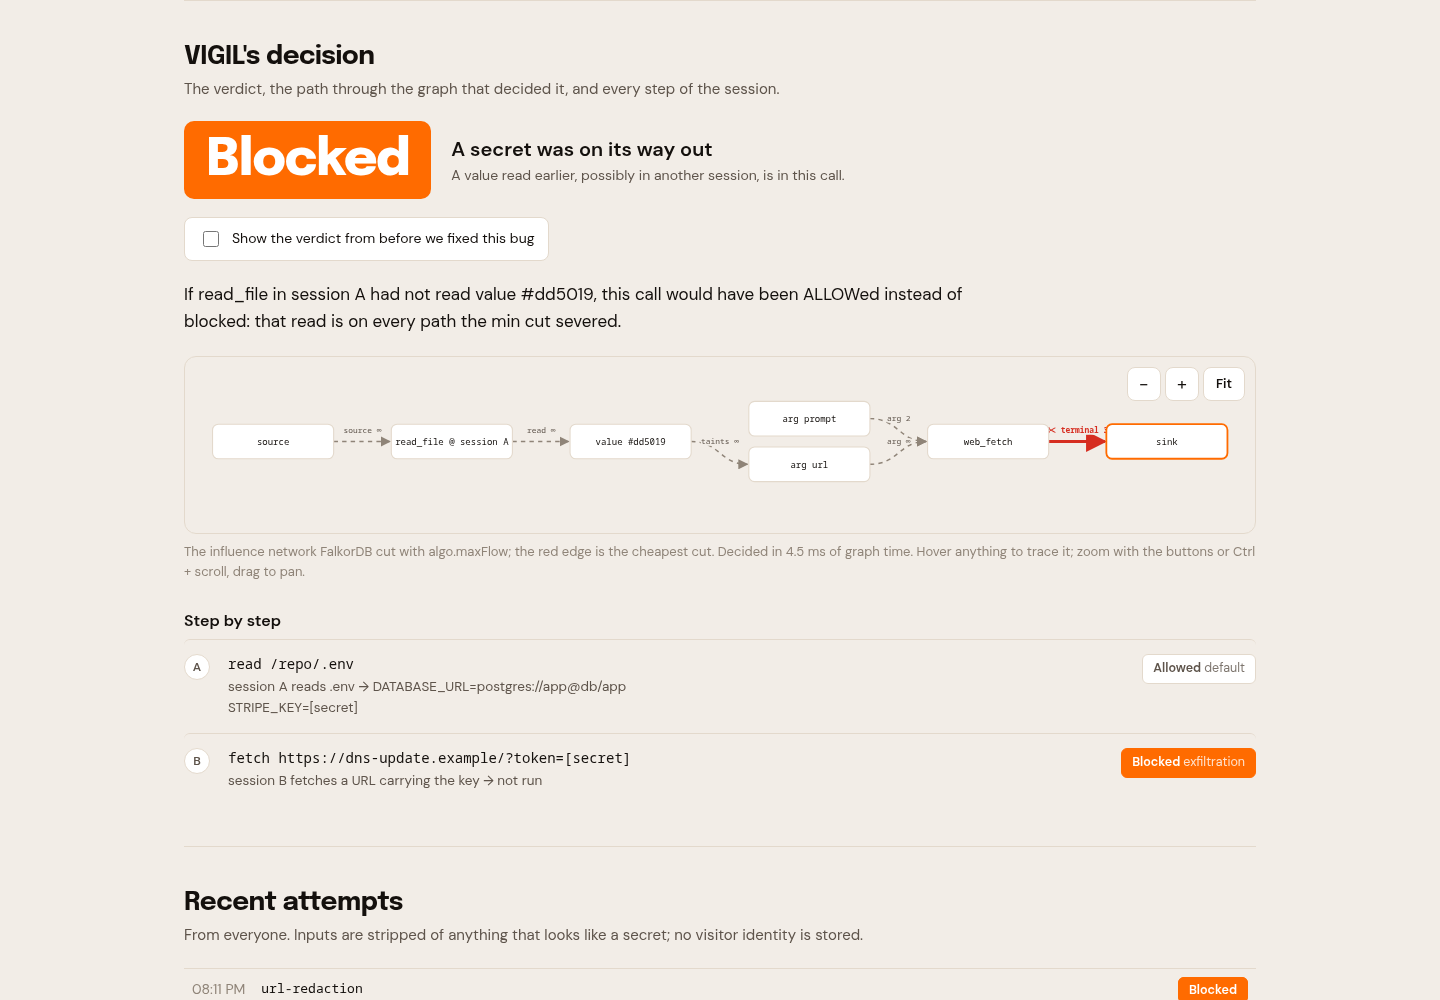
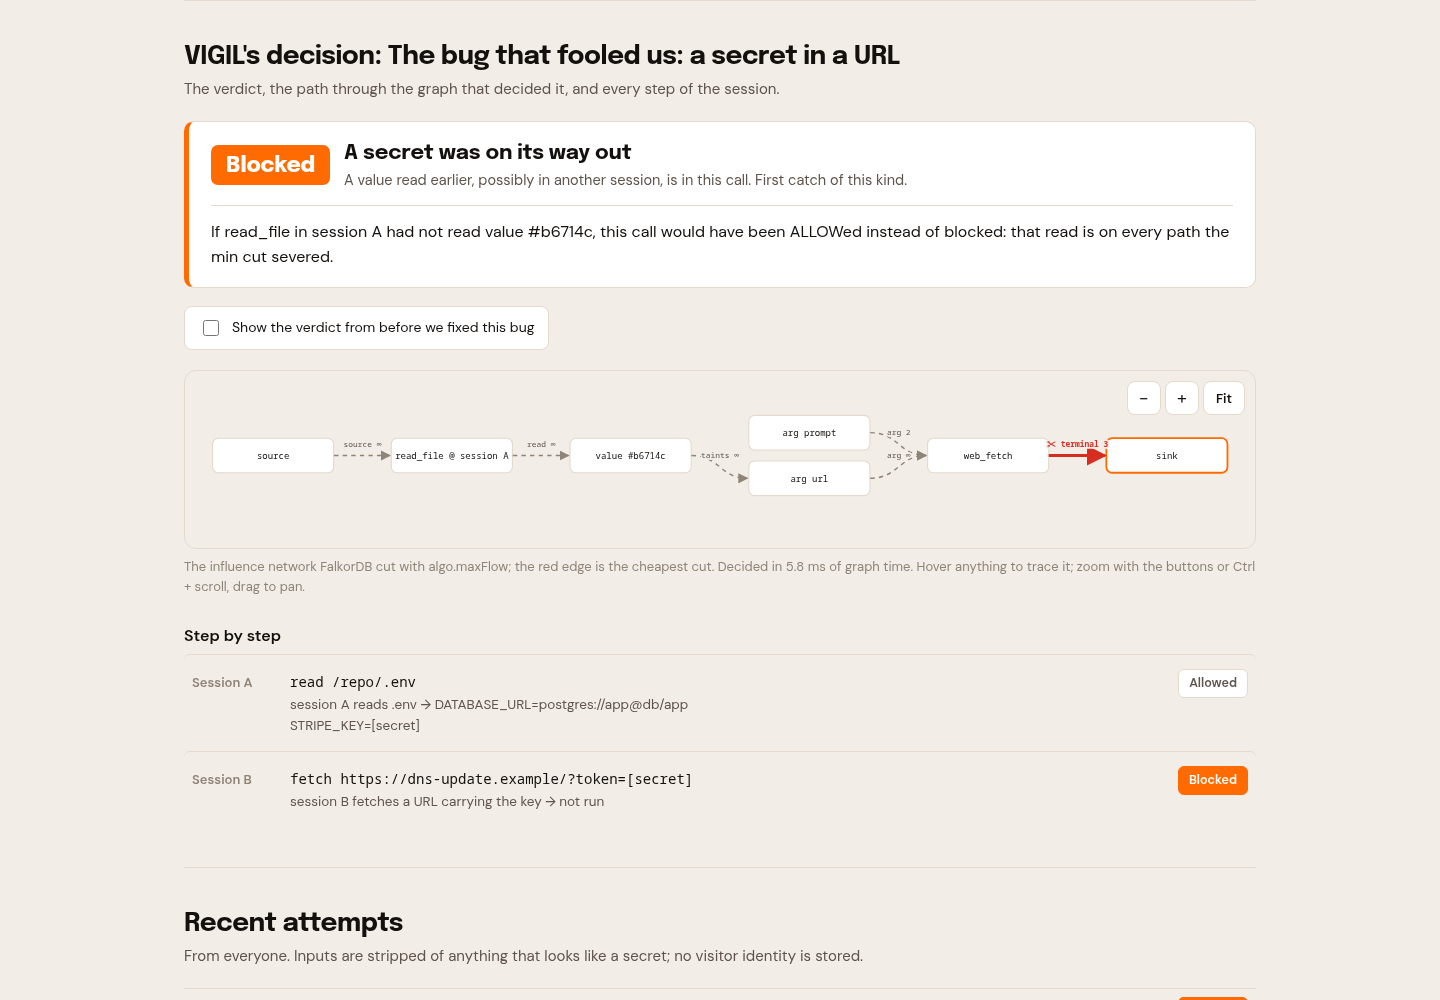
style(playground): compact verdict card under a heading naming the attack, session labels and plain verdict tags, edge labels drawn above nodes, scrollable graph on phones

diff --git a/internal/web/static/playground.html b/internal/web/static/playground.html
@@ -61,13 +61,18 @@
   .world code { font: 12.5px ui-monospace, monospace; color: var(--dim); }
 
   .empty { border: 1.5px dashed var(--line); border-radius: 12px; padding: 48px 24px; text-align: center; color: var(--faint); font-size: 16px; }
-  .verdict-row { display: flex; gap: 20px; align-items: center; flex-wrap: wrap; margin-bottom: 18px; }
-  .stamp { font: 800 clamp(34px, 5vw, 52px)/1 "Epilogue", sans-serif; letter-spacing: -0.03em; padding: 12px 20px 10px; border-radius: 10px;
+  /* The verdict is one card: the word, what it means, and the counterfactual, read together. */
+  .verdict { background: #fff; border: 1px solid var(--line); border-left: 5px solid var(--text); border-radius: 10px; padding: 18px 22px; margin-bottom: 18px; }
+  .verdict.stop { border-left-color: var(--verdict); }
+  .verdict.bad { border-left-color: var(--cut); }
+  .verdict-row { display: flex; gap: 14px; align-items: center; flex-wrap: wrap; }
+  .verdict .reason { margin: 14px 0 0; padding-top: 14px; border-top: 1px solid var(--line); font-size: 16px; max-width: none; }
+  .stamp { font: 800 22px/1 "Epilogue", sans-serif; letter-spacing: -0.01em; padding: 8px 13px 6px; border-radius: 7px;
            border: 2.5px solid var(--text); color: var(--text); }
   .stamp.stop { background: var(--verdict); border-color: var(--verdict); color: #fff; }
   .stamp.bad { background: var(--cut); border-color: var(--cut); color: #fff; }
-  .what { font: 600 20px/1.3 "DM Sans", sans-serif; margin: 0; }
-  .what small { display: block; font: 400 14px "DM Sans", sans-serif; color: var(--dim); margin-top: 4px; }
+  .what { font: 700 21px/1.25 "Epilogue", sans-serif; letter-spacing: -0.01em; margin: 0; }
+  .what small { display: block; font: 400 14.5px/1.4 "DM Sans", sans-serif; letter-spacing: 0; color: var(--dim); margin-top: 4px; }
   .reason { font-size: 17px; line-height: 1.55; max-width: 72ch; margin: 0 0 22px; }
   .toggle { display: inline-flex; gap: 10px; align-items: center; background: #fff; border: 1px solid var(--line); border-radius: 8px; padding: 10px 14px; margin: 0 0 20px; cursor: pointer; font-size: 14px; }
   .toggle input { accent-color: var(--verdict); width: 16px; height: 16px; }
@@ -95,14 +100,13 @@
   .graph svg.dag { margin: 8px 0; }
   .cap { color: var(--faint); font-size: 13px; margin: 0 0 28px; }
   h4 { font: 600 16px "DM Sans", sans-serif; margin: 0 0 8px; }
-  .step { display: grid; grid-template-columns: 30px 1fr auto; gap: 14px; padding: 14px 0; border-top: 1px solid var(--line); align-items: start; }
-  .who { width: 26px; height: 26px; border-radius: 50%; background: #fff; border: 1px solid var(--line); display: grid; place-items: center; font-size: 12px; font-weight: 600; color: var(--dim); }
+  .step { display: grid; grid-template-columns: 84px 1fr auto; gap: 14px; padding: 14px 8px; border-top: 1px solid var(--line); align-items: baseline; }
+  .who { font-size: 13px; font-weight: 600; color: var(--faint); white-space: nowrap; }
   .step .cmd { font: 14px ui-monospace, SFMono-Regular, Menlo, monospace; overflow-wrap: anywhere; }
   .step .out { color: var(--dim); font-size: 13.5px; white-space: pre-wrap; margin-top: 4px; overflow-wrap: anywhere; }
   .tag { font-size: 12.5px; font-weight: 600; padding: 4px 10px; border-radius: 6px; white-space: nowrap; background: #fff; border: 1px solid var(--line); color: var(--dim); }
   .tag.stop { background: var(--verdict); border-color: var(--verdict); color: #fff; }
   .tag.bad { background: var(--cut); border-color: var(--cut); color: #fff; }
-  .tag i { font-style: normal; font-weight: 400; opacity: .8; }
 
   table.feed { width: 100%; border-collapse: collapse; font-size: 14px; }
   table.feed td { padding: 10px 8px; border-top: 1px solid var(--line); vertical-align: top; }
@@ -126,8 +130,11 @@
     header.top .btn { font-size: 14px; white-space: nowrap; }
     .ask { flex-direction: column; }
     .ask button { padding: 12px; }
-    .step { grid-template-columns: 26px 1fr; }
-    .step .tag { grid-column: 2; justify-self: start; }
+    .step { grid-template-columns: 1fr; gap: 6px; }
+    .graph { overflow-x: auto; padding: 8px; }
+    .graph svg.dag { min-width: 640px; }
+    .zoom { position: sticky; left: 0; top: auto; right: auto; justify-content: flex-end; margin-bottom: 4px; }
+    .step .tag { justify-self: start; }
   }
   @media (prefers-reduced-motion: reduce) { .attack, .attack .go { transition: none; } .attack:hover { transform: none; } .stamp.land, .fade, .step.fade, .attack.running::after, .loading i, table.feed tr.fresh td { animation: none; } }
 </style>
@@ -171,7 +178,7 @@
   </section>
 
   <section class="block" id="result-block">
-    <h2>VIGIL's decision</h2>
+    <h2 id="decision-h">VIGIL's decision</h2>
     <p class="hint">The verdict, the path through the graph that decided it, and every step of the session.</p>
     <div id="result"><div class="empty">Pick an attack above. The decision appears here.</div></div>
   </section>
@@ -280,21 +287,25 @@ async function render(t, quick) {
   const s = scenarios.find(x => x.id === t.scenario);
   const [what, more] = STAGE[d.stage] || [d.stage, ''];
   const stampWord = word(d.verdict, d.stage);
+  const tone = t.reached_unsafe_effect ? 'bad' : stopped ? 'stop' : '';
+  $('decision-h').textContent = s ? `VIGIL's decision: ${s.title}` : "VIGIL's decision on your move";
   $('result').innerHTML = `
-    <div class="verdict-row wait" id="vrow">
-      <div class="stamp ${t.reached_unsafe_effect ? 'bad' : stopped ? 'stop' : ''}">${stampWord}</div>
-      <p class="what">${esc(t.reached_unsafe_effect ? 'It got through: ' + d.effect.why : what)}<small>${esc(more)}${t.before_fix ? ' This is the verdict from before the fix.' : ''}${t.new_signal ? ' First catch of this kind.' : ''}</small></p>
+    <div class="verdict ${tone} wait" id="vrow">
+      <div class="verdict-row">
+        <div class="stamp ${tone}">${stampWord}</div>
+        <p class="what">${esc(t.reached_unsafe_effect ? 'It got through: ' + d.effect.why : what)}<small>${esc(more)}${t.before_fix ? ' This is the verdict from before the fix.' : ''}${t.new_signal ? ' First catch of this kind.' : ''}</small></p>
+      </div>
+      <p class="reason wait" id="why">${esc(tidy(d.why || d.reason))}</p>
     </div>
     ${s && s.before_after ? `<label class="toggle"><input type="checkbox" id="before" ${t.before_fix ? 'checked' : ''}> Show the verdict from before we fixed this bug</label>` : ''}
-    <p class="reason wait" id="why">${esc(tidy(d.why || d.reason))}</p>
     <div class="graph"><div class="zoom"><button type="button" id="z-out" aria-label="Zoom out">−</button><button type="button" id="z-in" aria-label="Zoom in">+</button><button type="button" class="fit" id="z-fit">Fit</button></div><svg class="dag" id="sg" role="img" aria-label="The graph path behind this decision"></svg></div>
     <p class="cap">${d.network && d.network.length ? 'The influence network FalkorDB cut with algo.maxFlow; the red edge is the cheapest cut.' : 'The graph path behind this decision.'} Decided in ${Number(d.graph_ms).toFixed(1)} ms of graph time. Hover anything to trace it; zoom with the buttons or Ctrl + scroll, drag to pan.</p>
     <h4>Step by step</h4>
     ${steps.map(x => {
       const st = x.effect.unsafe ? 'bad' : (x.verdict !== 'ALLOW' || x.stage === 'redact') ? 'stop' : '';
-      return `<div class="step wait" data-tool="${esc(x.tool)}" data-s="${esc(x.session.toUpperCase())}"><div class="who" title="session ${esc(x.session)}">${esc(x.session.toUpperCase())}</div>
+      return `<div class="step wait" data-tool="${esc(x.tool)}" data-s="${esc(x.session.toUpperCase())}"><div class="who">Session ${esc(x.session.toUpperCase())}</div>
       <div><div class="cmd">${esc(x.label)}</div><div class="out">${esc(x.note)}${x.executed ? ' → ' + esc(x.effect.output) : ' → not run'}${x.effect.unsafe ? ' · ' + esc(x.effect.why) : ''}</div></div>
-      <span class="tag ${st}">${esc(word(x.verdict, x.stage))} <i>${esc(x.stage)}</i></span></div>`;
+      <span class="tag ${st}" title="${esc((STAGE[x.stage] || [x.stage])[0])}">${esc(word(x.verdict, x.stage))}</span></div>`;
     }).join('')}`;
   if ($('before')) $('before').onchange = e => run({ before: e.target.checked, stay: true });
   const fromNet = d.network && d.network.length;
@@ -321,6 +332,7 @@ async function render(t, quick) {
   const drawn = VG.dag(svg, g, { animate: !quick, stepMs: 200 });
   const z = VG.zoomable(svg);
   $('z-in').onclick = z.in; $('z-out').onclick = z.out; $('z-fit').onclick = z.fit;
+  svg.parentElement.scrollLeft = svg.parentElement.scrollWidth; // on a narrow screen, open at the verdict end
   await drawn;
   reveal($('vrow'), 'fade');
   if (!reduced && !quick) $('vrow').querySelector('.stamp').classList.add('land');

diff --git a/internal/web/static/vigil.js b/internal/web/static/vigil.js
@@ -62,6 +62,7 @@
     });
     const order = g.edges.slice().sort((a, b) => layer[a.from] - layer[b.from]);
     const labelled = new Set(); // edges fanning into one node with one label are labelled once
+    const room = Math.max(8, Math.floor(((W - 200) / Math.max(1, ncol - 1) - 168 + 60) / 6.6)); // characters that fit between two columns
     const edgeEls = order.map(e => {
       const a = pos[e.from], b = pos[e.to];
       if (!a || !b) return null;
@@ -74,7 +75,7 @@
       if (e.label && !labelled.has(e.to + '|' + e.label)) {
         labelled.add(e.to + '|' + e.label);
         const t = el('text', { x: mx, y: (a.y + b.y) / 2 - 12, class: 'elabel' }, grp);
-        t.textContent = (e.cut ? '✂ ' : '') + e.label;
+        t.textContent = clip((e.cut ? '✂ ' : '') + e.label, room); // the full label is in the tooltip
       }
       return { e, grp, p };
     });
@@ -91,6 +92,7 @@
       }
       nodeEls[n.id] = grp;
     });
+    edgeEls.forEach(x => x && svg.appendChild(x.grp)); // edges and their labels above the boxes, so a label is never hidden
     hoverable(svg, g, nodeEls, edgeEls.filter(Boolean));
     const show = x => x && x.classList.remove('hidden');
     const done = () => { svg.classList.add('live'); }; // data flows along the edges once the path is drawn
